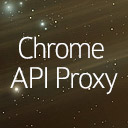
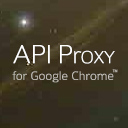
Modified project description according to the branding guidelines

diff --git a/README.md b/README.md
@@ -1,11 +1,11 @@
-# Chrome API Proxy
+# API Proxy for Google Chrome™
 
-Leverage Chrome App APIs in Normal Htmls
+Leverage Chrome App APIs in Normal Web Pages
 
 ## Installation
 
-1. Install the "Chrome API Proxy" app. Launch the app whenever you want to use the APIs.
-2. Install the "Chrome API Proxy - Agent" extension.
+1. Install the "API Proxy for Google Chrome™" app. Launch the app whenever you want to use the APIs.
+2. Install the "API Proxy Agent for Google Chrome™" extension.
 
 ## Usage
 
@@ -16,12 +16,16 @@ Insert
 <script src="http://webduinoio.github.io/chrome-api-proxy/lib/chrome.{API_USED}.js"></script>
 ```
 
-in your normal htmls.
+in your normal web pages.
 
-Use the chrome app apis as in the chrome apps.
+Now you can use the chrome-app apis even not in chrome-apps.
+
+## Disclaimer
+
+Google Chrome™ is a trademark of Google Inc. Use of this trademark is subject to Google Permissions.
 
 ## Contribute
 
-Extending api is easy. We surely welcome your pull requests.
+Extending the apis is easy. Any contribution or suggestion is welcome.
 
 ## [License](LICENSE)
